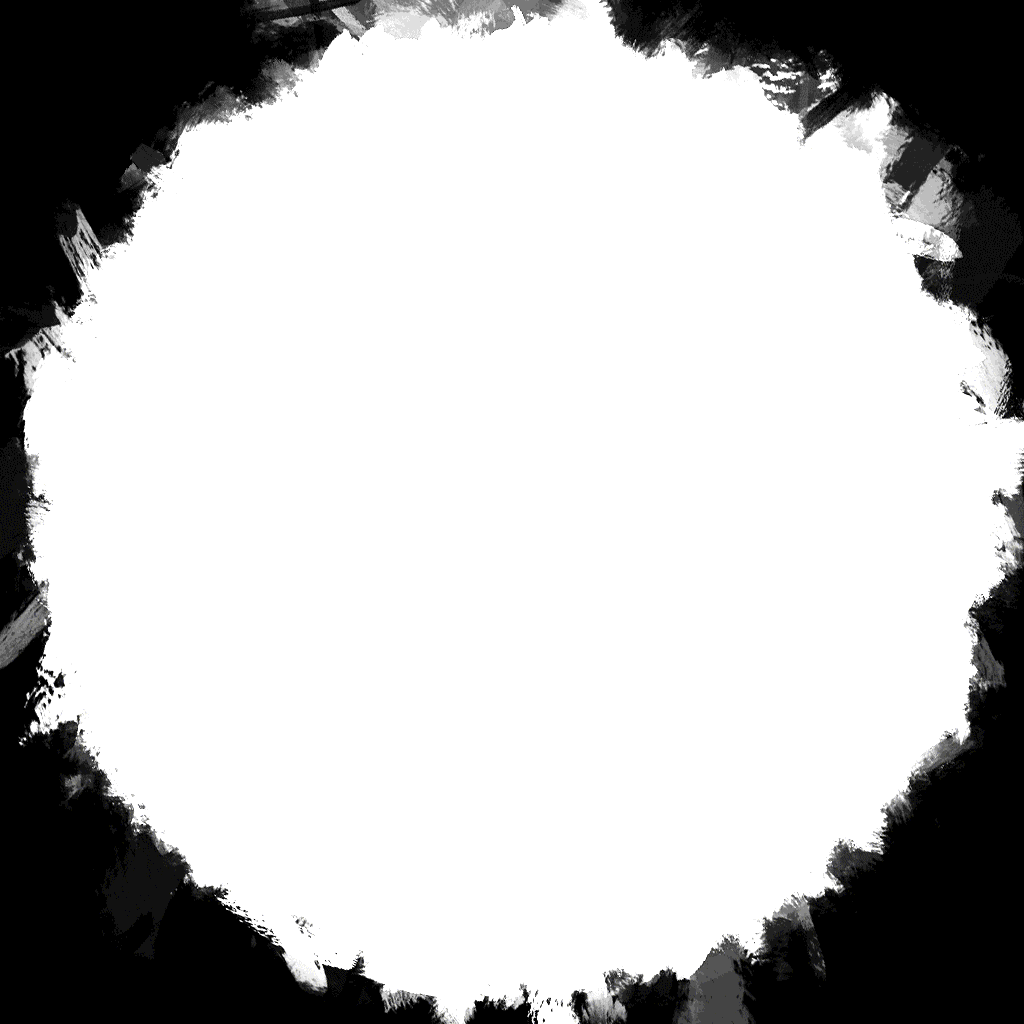
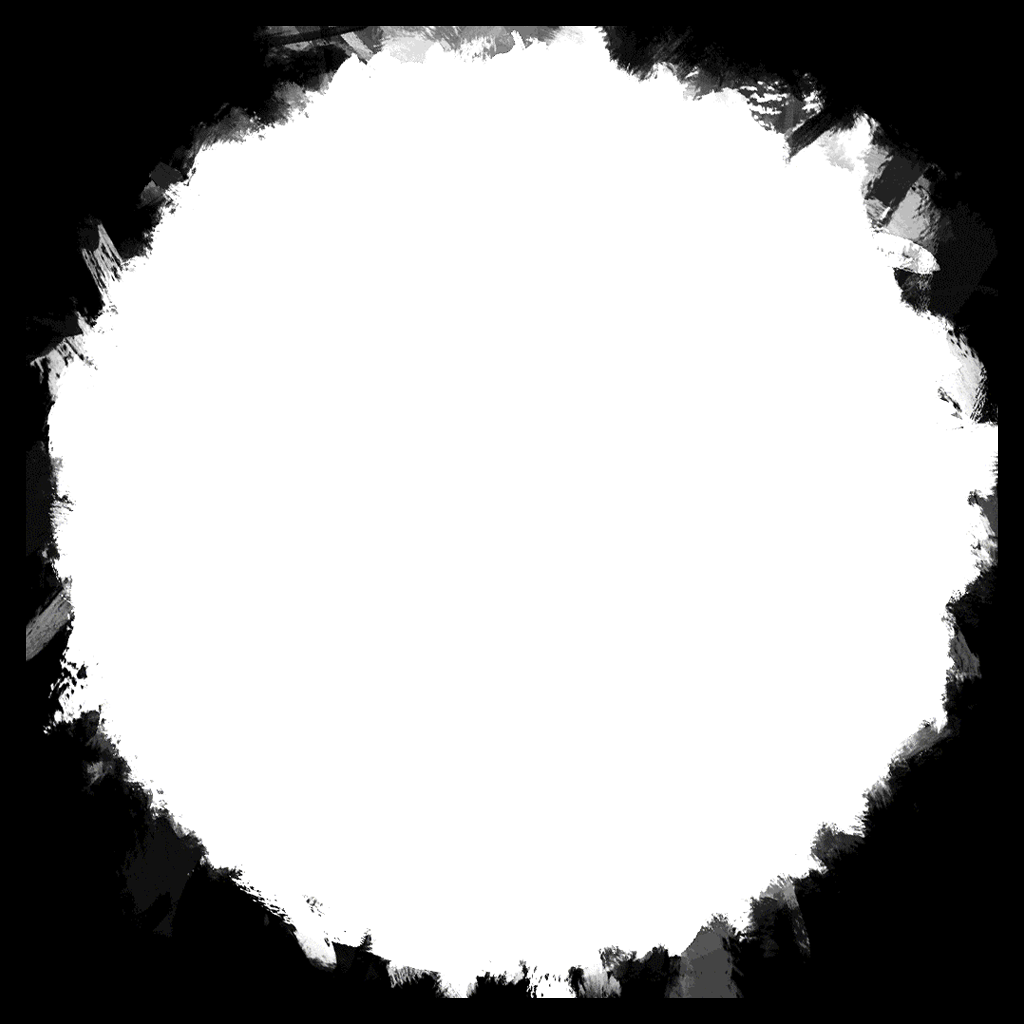
refactor + tex tweak

Changed region(s): [[0.0, 0.0, 1.0, 1.0]]

diff --git a/src/layouts/pond/shaders/THLandShader.jsx b/src/layouts/pond/shaders/THLandShader.jsx
@@ -4,12 +4,14 @@ import { useMemo } from 'react'
 import { useFrame } from '@react-three/fiber'
 
 export const useTHLandMaterial = ( color ) => {
+  const op_tex = new THREE.TextureLoader().load( "tex/circlemask_thres.png" );
+  // console.log(op_tex);
   const mat = useMemo(
     () =>
       new ShaderMaterial({
         uniforms: {
           tMap: new Uniform(new THREE.TextureLoader().load( "tex/th_land.jpg" )),
-          tOp: new Uniform(new THREE.TextureLoader().load( "tex/circlemask_thres.png" )),
+          tOp: new Uniform(op_tex),
           uFresnelColor: new Uniform(new THREE.Color("#1A96B5")),
           uTime: new Uniform(0)
         },
@@ -143,7 +145,7 @@ const frag = `
       vec2 spinuv = rotateUV(vUv, posterizeTime, vec2(0.5, 0.5));
       float op = texture2D(tOp, spinuv).r;
 
-      op = crange(op, 0.1, 1.0, 0.0, 1.0);
+      op = crange(op, 0.1, 0.99, 0.0, 1.0);
       vec3 color = texture2D(tMap, vUv).rgb;
       float fresnel = getFresnel(vNormal, vViewDir, 0.5);
       fresnel = smoothstep(0.0, 1.0, fresnel);
@@ -151,5 +153,6 @@ const frag = `
       color.rgb = mix(color.rgb, uFresnelColor, fresnel * 0.5);
 
       gl_FragColor = vec4(color, op);
+      // gl_FragColor = vec4(vec3(op), 1);
     }
     `

diff --git a/src/layouts/PondLayout.jsx b/src/layouts/PondLayout.jsx
@@ -3,13 +3,13 @@ import { useRef } from "react";
 import * as THREE from "three"
 import { useLocation } from "wouter";
 
-import LandModel from "./pond/LandModel";
-import TreeModel from "./pond/TreeModel";
-import WaterModel from "./pond/WaterModel";
-import LeavesModel from "./pond/LeavesModel";
-import GrassModel from "./pond/GrassModel";
-import RockModel from "./pond/RockModel";
-import SphereModel from "./pond/SphereModel";
+import LandModel from "./pond/models/LandModel";
+import TreeModel from "./pond/models/TreeModel";
+import WaterModel from "./pond/models/WaterModel";
+import LeavesModel from "./pond/models/LeavesModel";
+import GrassModel from "./pond/models/GrassModel";
+import RockModel from "./pond/models/RockModel";
+import SphereModel from "./pond/models/SphereModel";
 import { OrbitControls } from "@react-three/drei";
 
 function PondLayout() {

diff --git a/src/layouts/pond/models/LeavesModel.jsx b/src/layouts/pond/models/LeavesModel.jsx
@@ -1,8 +1,8 @@
 import { useRef } from "react";
 import * as THREE from "three";
 
-import leaves from '../../geo/th_treeleaves.json'
-import { useTHLeavesMaterial } from "./THLeavesShader";
+import leaves from '../../../geo/th_treeleaves.json'
+import { useTHLeavesMaterial } from "./../shaders/THLeavesShader";
 
 function LeavesModel() {
     const leavesRef = useRef();

diff --git a/src/layouts/pond/models/SphereModel.jsx b/src/layouts/pond/models/SphereModel.jsx
@@ -1,8 +1,8 @@
 import { useRef } from "react";
 import * as THREE from "three";
 
-import sphere from '../../geo/th_backsphere.json'
-import { useTHSphereMaterial } from "./THSphereShader";
+import sphere from '../../../geo/th_backsphere.json'
+import { useTHSphereMaterial } from "./../shaders/THSphereShader";
 
 function SphereModel() {
     const sphereRef = useRef();

diff --git a/src/layouts/pond/models/GrassModel.jsx b/src/layouts/pond/models/GrassModel.jsx
@@ -1,8 +1,8 @@
 import { useRef } from "react";
 import * as THREE from "three";
 
-import grass from '../../geo/th_land_grss.json'
-import { useTHBushMaterial } from "./THBushShader";
+import grass from '../../../geo/th_land_grss.json'
+import { useTHBushMaterial } from "../shaders/THBushShader";
 
 function GrassModel() {
     const grassRef = useRef();

diff --git a/src/layouts/pond/models/WaterModel.jsx b/src/layouts/pond/models/WaterModel.jsx
@@ -1,8 +1,8 @@
 import { useRef } from "react";
 import * as THREE from "three";
 
-import water from '../../geo/th_water.json'
-import { useTHWaterMaterial } from "./THWaterShader";
+import water from '../../../geo/th_water.json'
+import { useTHWaterMaterial } from "./../shaders/THWaterShader";
 
 function WaterModel() {
     const waterRef = useRef();

diff --git a/src/layouts/pond/models/LandModel.jsx b/src/layouts/pond/models/LandModel.jsx
@@ -1,8 +1,8 @@
 import { useRef } from "react";
 import * as THREE from "three";
 
-import land from '../../geo/th_land.json'
-import { useTHLandMaterial } from "./THLandShader";
+import land from '../../../geo/th_land.json'
+import { useTHLandMaterial } from "./../shaders/THLandShader";
 
 function LandModel() {
     const landRef = useRef();

diff --git a/src/layouts/pond/models/RockModel.jsx b/src/layouts/pond/models/RockModel.jsx
@@ -1,8 +1,8 @@
 import { useRef } from "react";
 import * as THREE from "three";
 
-import rock from '../../geo/th_rock.json'
-import { useTHRockMaterial } from "./THRockShader";
+import rock from '../../../geo/th_rock.json'
+import { useTHRockMaterial } from "./../shaders/THRockShader";
 
 function RockModel() {
     const rockRef = useRef();

diff --git a/src/layouts/pond/models/TreeModel.jsx b/src/layouts/pond/models/TreeModel.jsx
@@ -1,8 +1,8 @@
 import { useRef } from "react";
 import * as THREE from "three";
 
-import tree from '../../geo/th_tree.json'
-import { useTHTreeMaterial } from "./THTreeShader";
+import tree from '../../../geo/th_tree.json'
+import { useTHTreeMaterial } from "./../shaders/THTreeShader";
 
 function TreeModel() {
     const treeRef = useRef();
